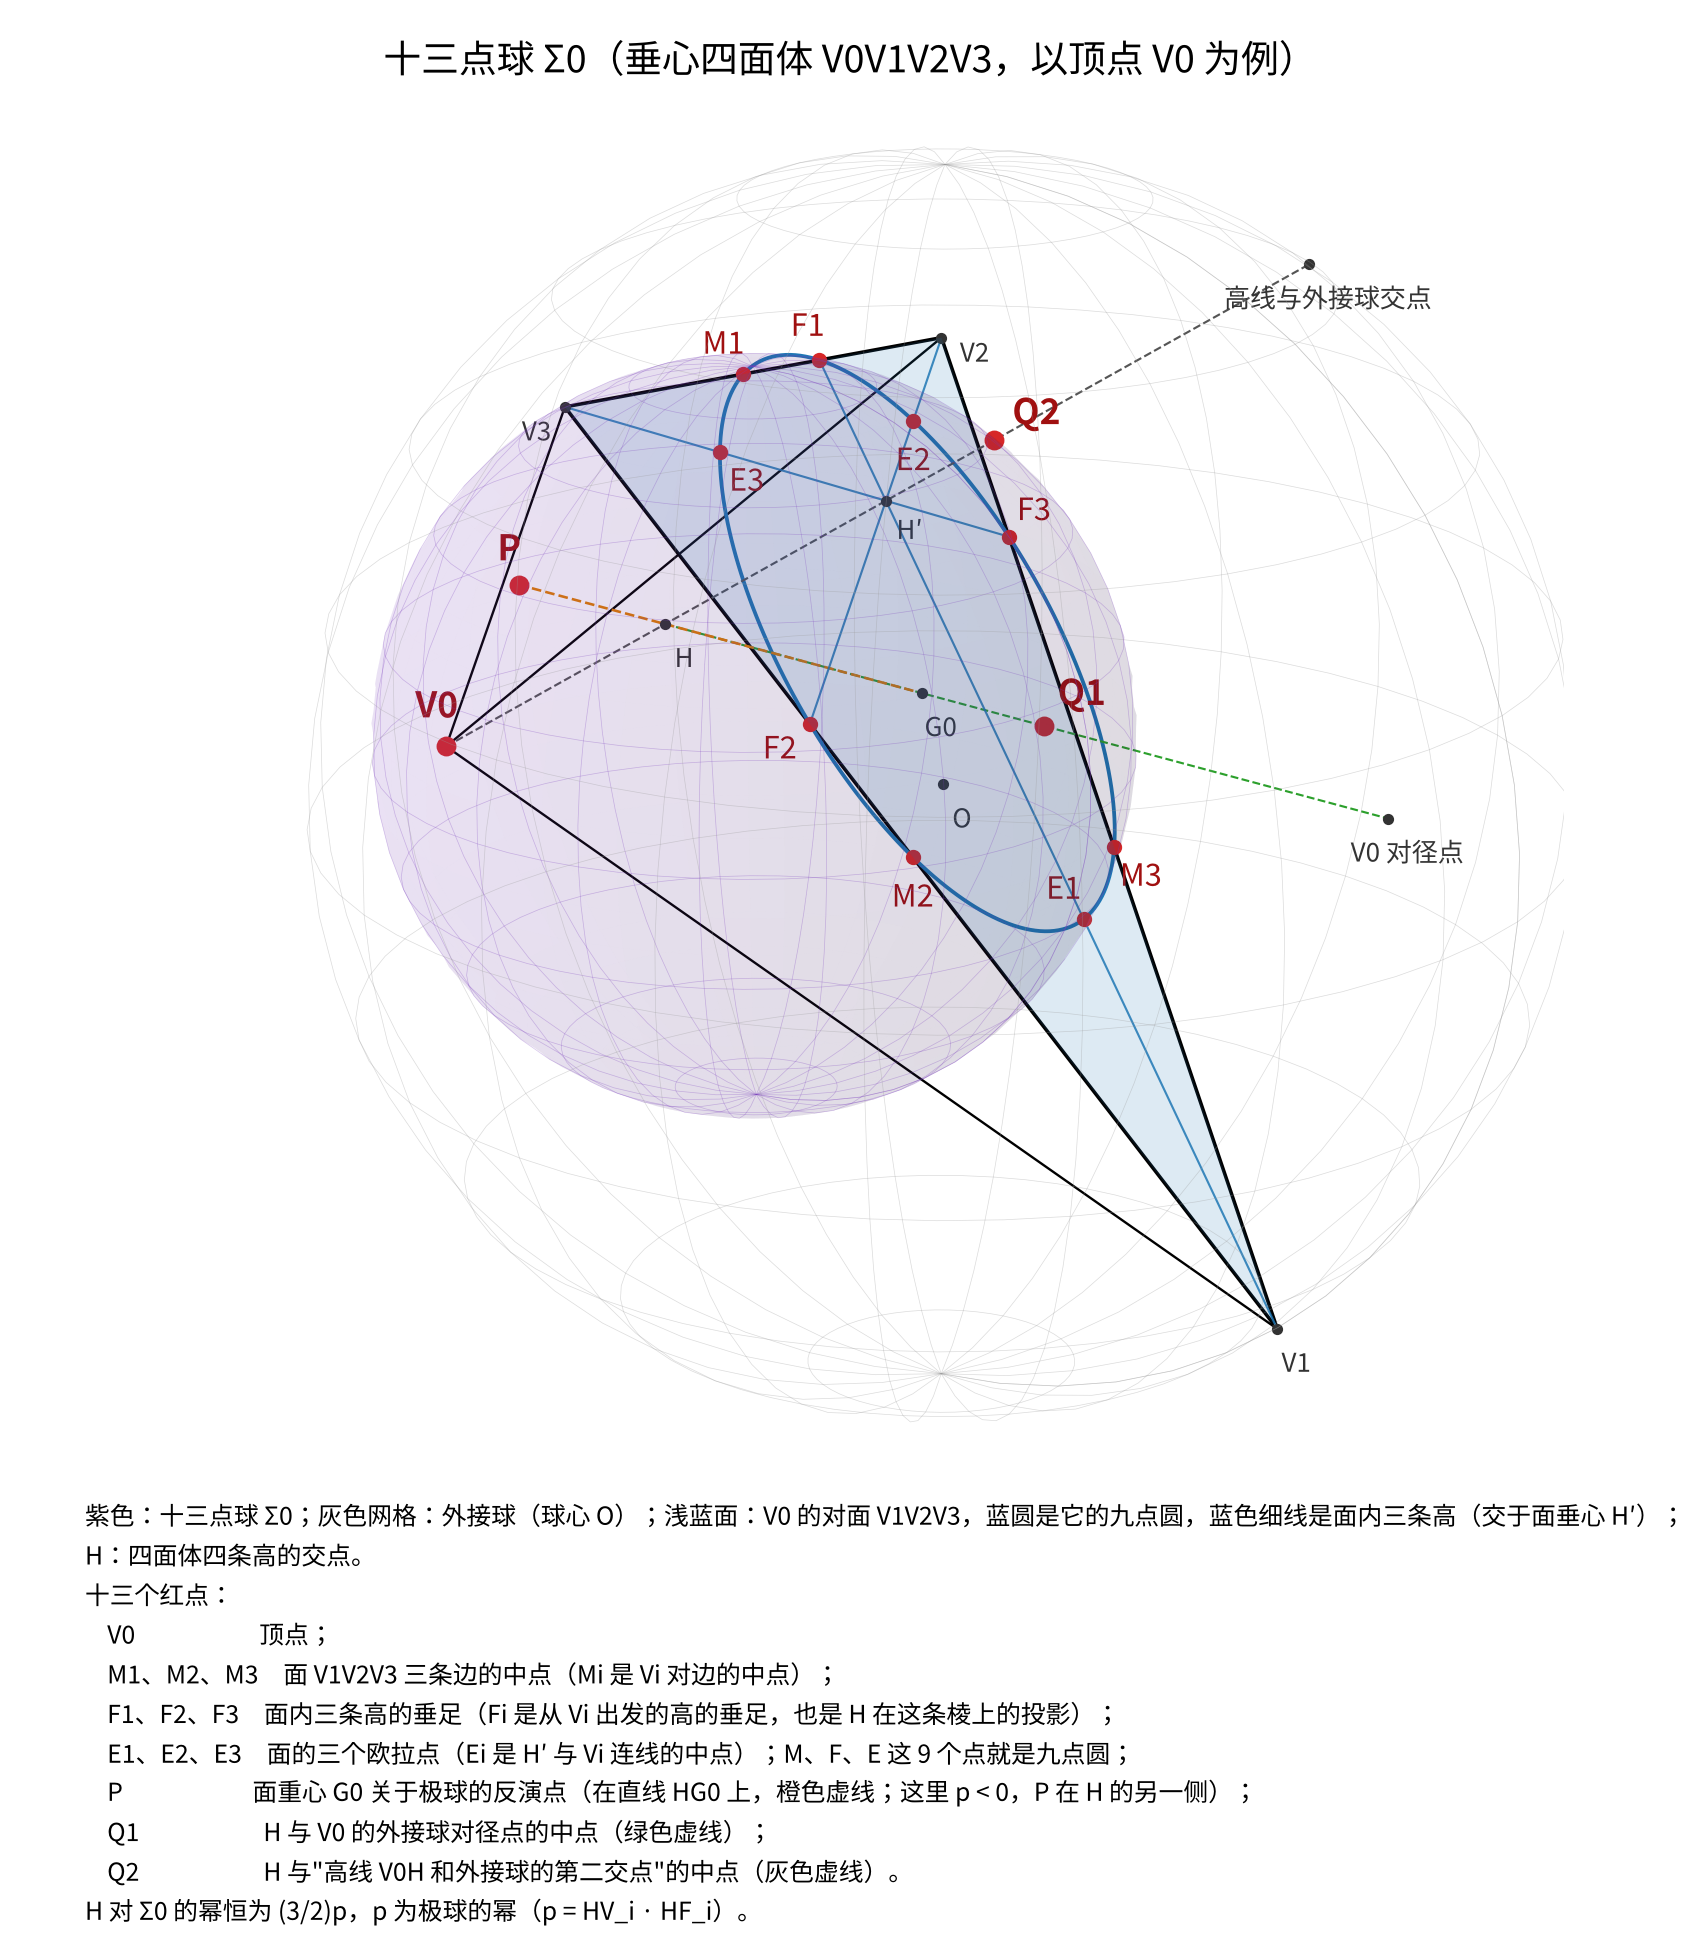
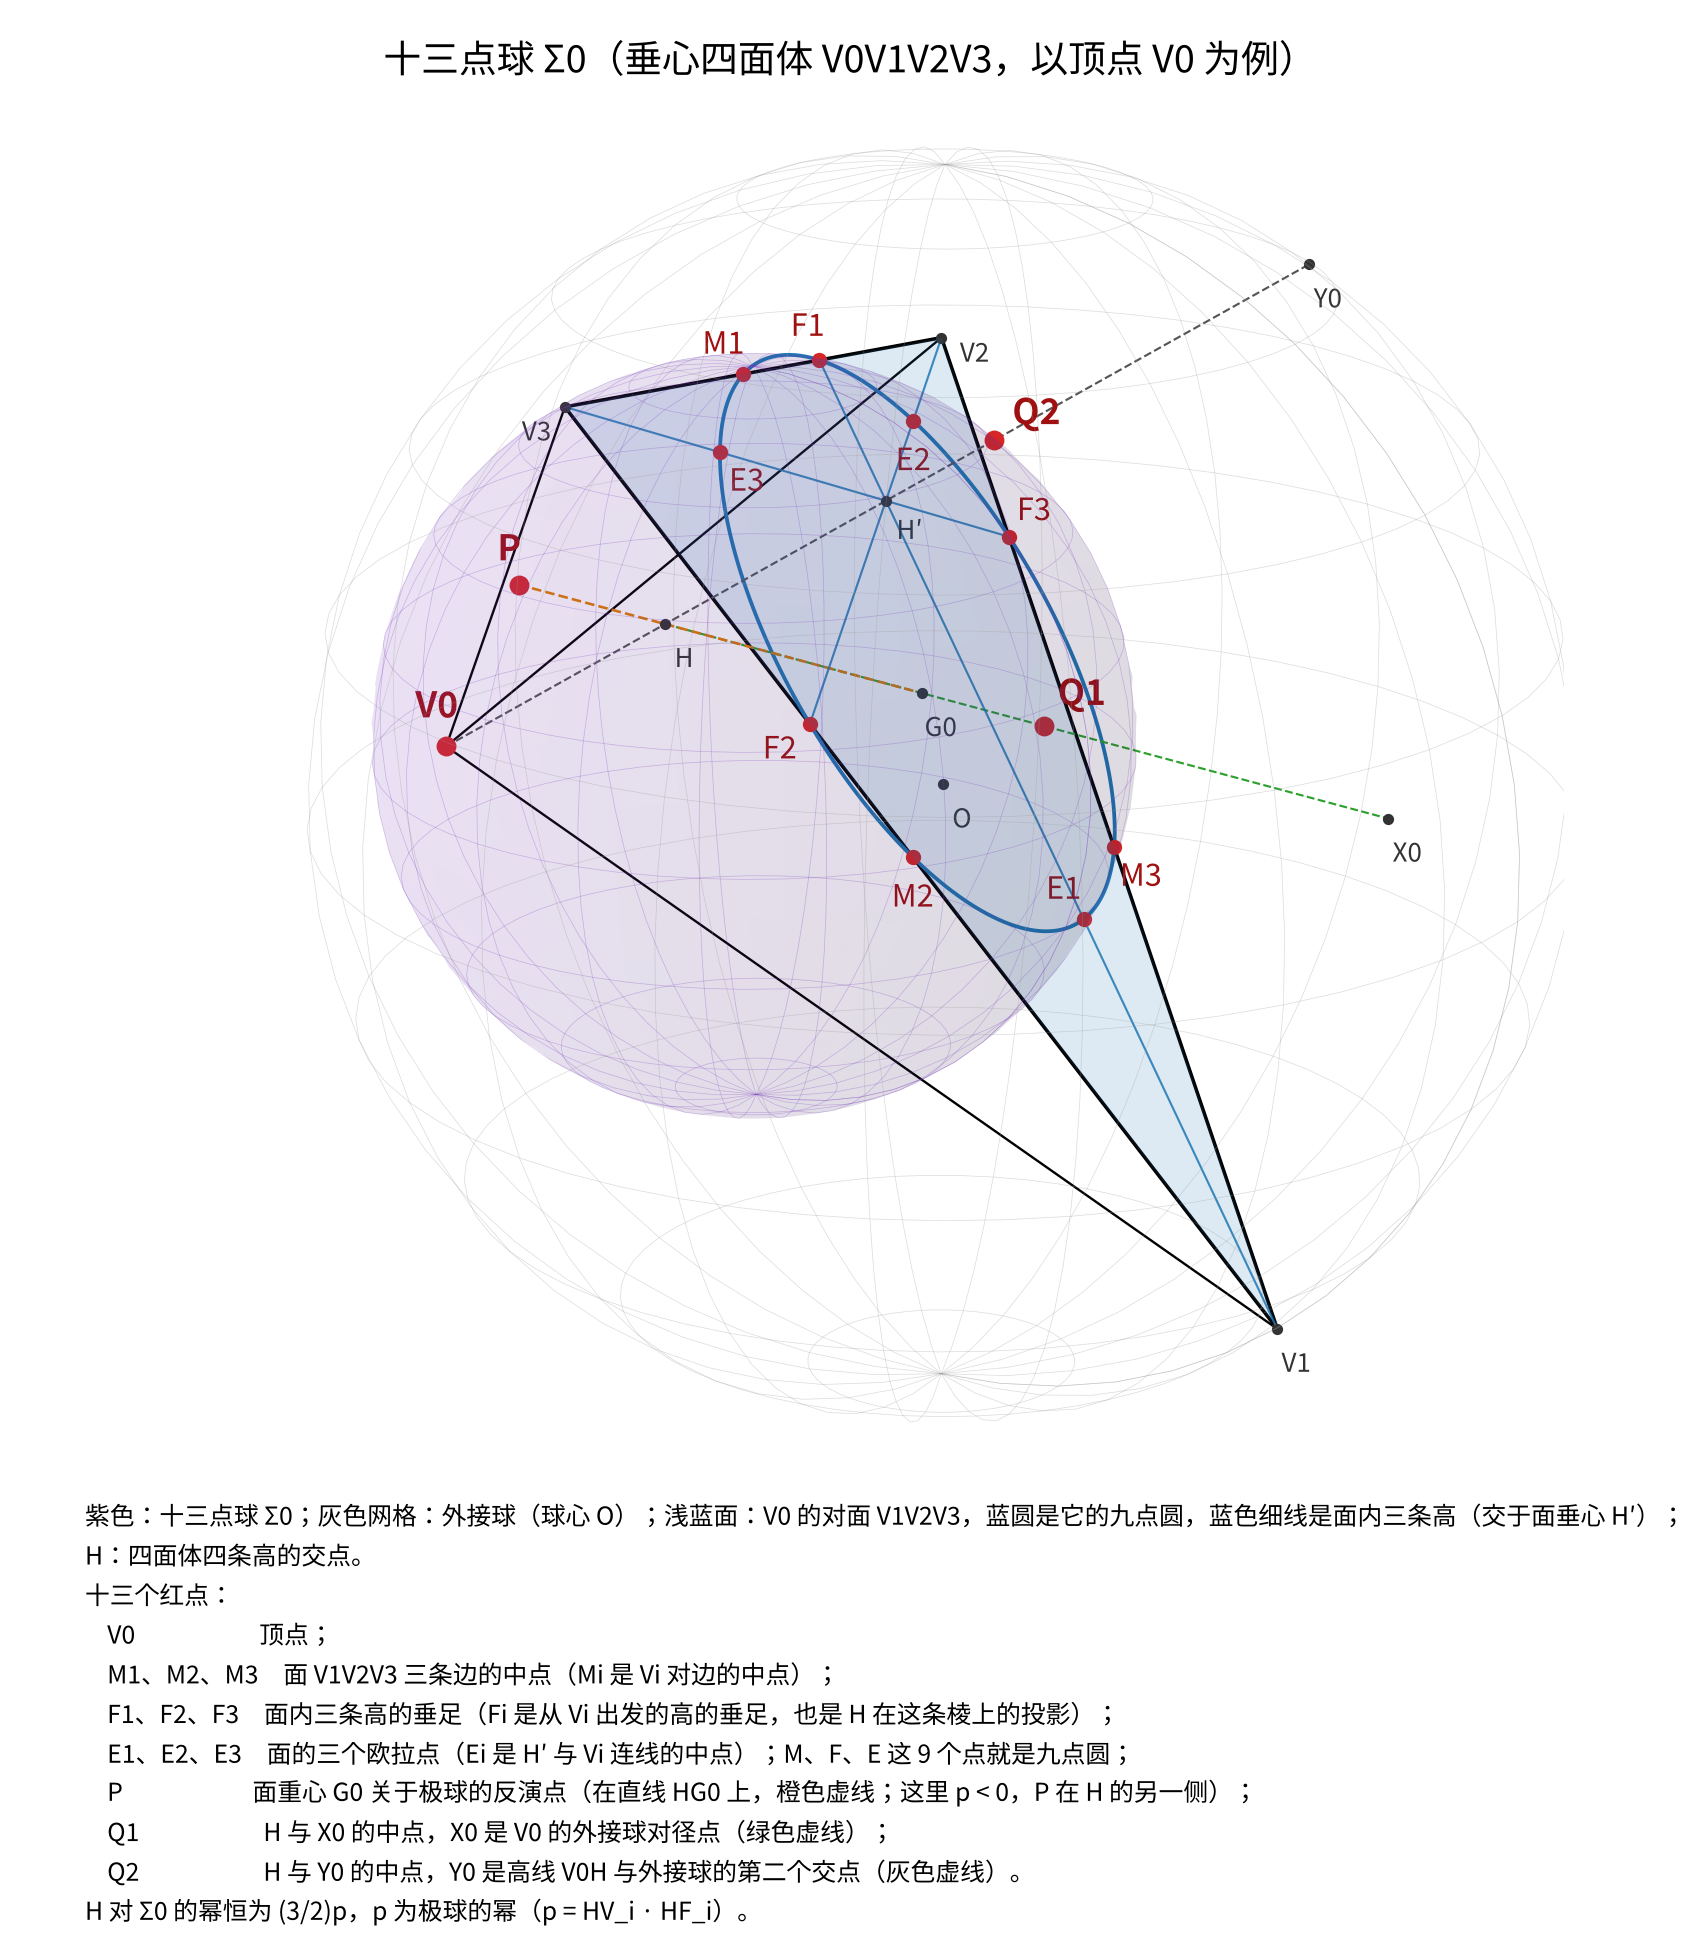
pics: 十三点球插图改标 X0、Y0，图注去掉过渡说明

Changed region(s): [[0.1871, 0.9049, 0.5924, 0.9673], [0.7171, 0.1248, 0.8418, 0.156], [0.8106, 0.4056, 0.8418, 0.4368]]

diff --git a/docs/垂心四面体六条定理.md b/docs/垂心四面体六条定理.md
@@ -64,7 +64,7 @@ M、F、E 这 9 个点就是对面那个三角形的九点圆，和 V0 一起把
 
 <img src="../pics/13_point_sphere/thirteen_point_sphere.png" alt="十三点球 Σ0：垂心四面体 V0V1V2V3，以顶点 V0 为例" width="900">
 
-图：以 V0 为例的十三点球 Σ0（紫色）。灰色网格是外接球（球心 O），浅蓝面是 V0 的对面 V1V2V3，蓝色粗圆是它的九点圆，蓝色细线是面内三条高（交于面垂心 H′）——<b>Σ0 与这个面的交线正好就是九点圆</b>，所以圆上的 9 个点 M1–M3、F1–F3、E1–E3 全在球上，它们和 V0 一起把 Σ0 定死。三条辅助线对应结论里多出来的三个点：橙色虚线是直线 HG0，极球幂 p < 0，所以反演点 P 落在 H 的另一侧；绿色虚线连 H 与 V0 的外接球对径点 X0，中点是 Q1；灰色虚线是高线 V0H，它与外接球的第二个交点 Y0 和 H 的中点是 Q2。（图中这两个点还写成文字「V0 对径点」「高线与外接球交点」。）
+图：以 V0 为例的十三点球 Σ0（紫色）。灰色网格是外接球（球心 O），浅蓝面是 V0 的对面 V1V2V3，蓝色粗圆是它的九点圆，蓝色细线是面内三条高（交于面垂心 H′）——<b>Σ0 与这个面的交线正好就是九点圆</b>，所以圆上的 9 个点 M1–M3、F1–F3、E1–E3 全在球上，它们和 V0 一起把 Σ0 定死。三条辅助线对应结论里多出来的三个点：橙色虚线是直线 HG0，极球幂 p < 0，所以反演点 P 落在 H 的另一侧；绿色虚线连 H 与 V0 的外接球对径点 X0，中点是 Q1；灰色虚线是高线 V0H，它与外接球的第二个交点 Y0 和 H 的中点是 Q2。
 
 ### 和经典的 24 点球是什么关系
 
